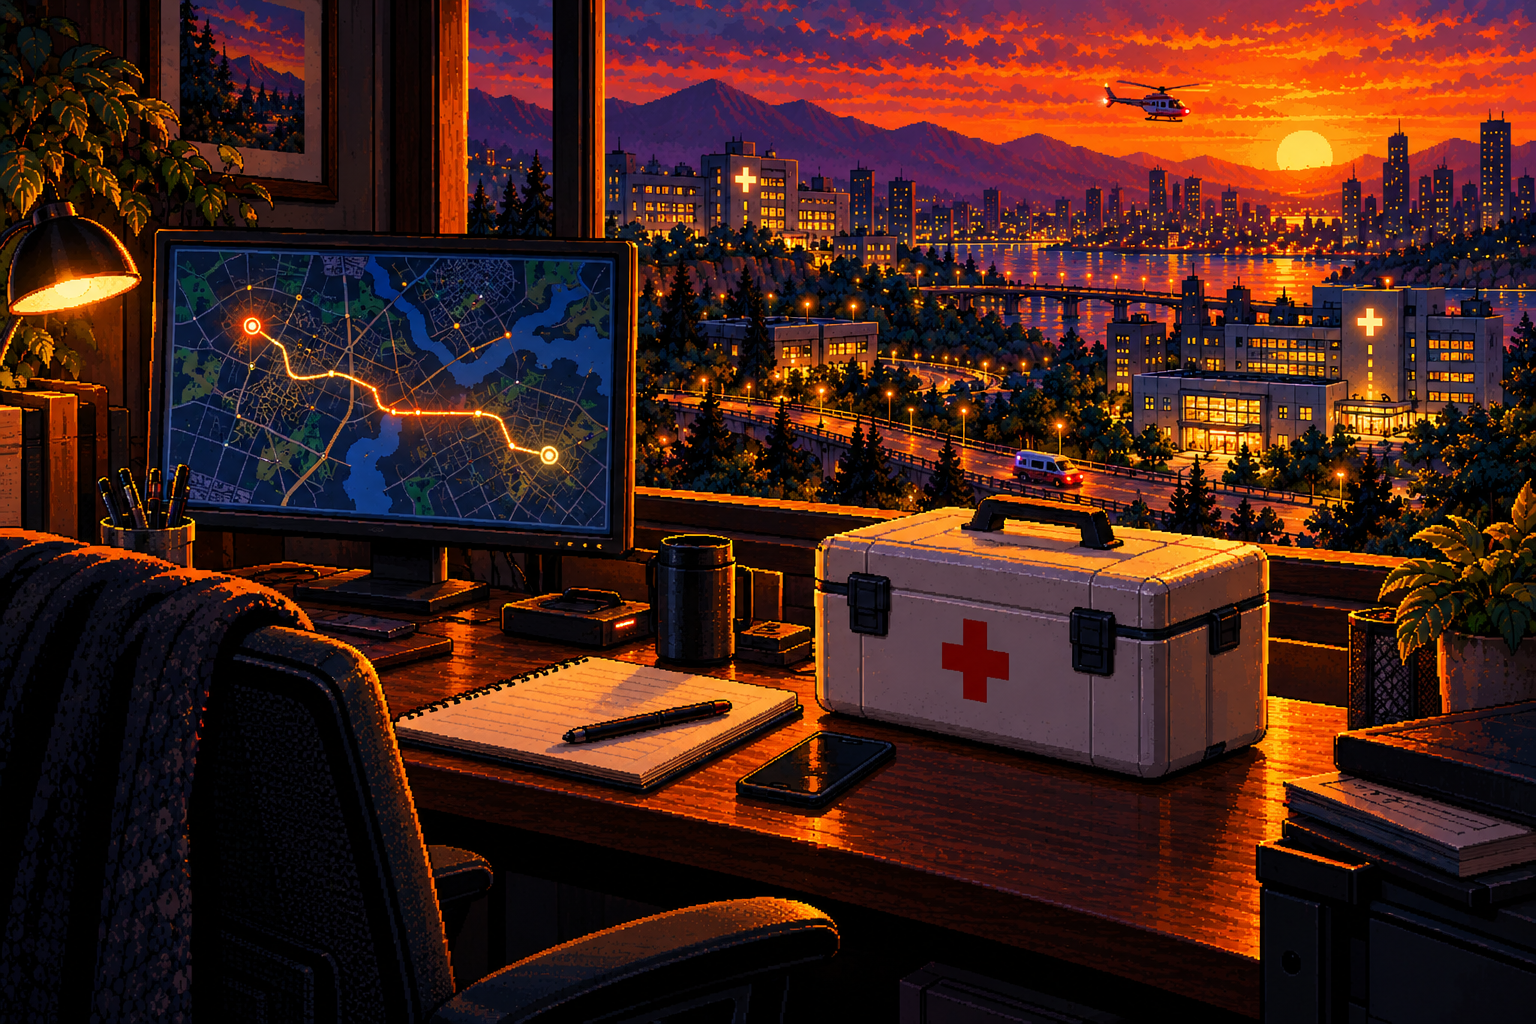
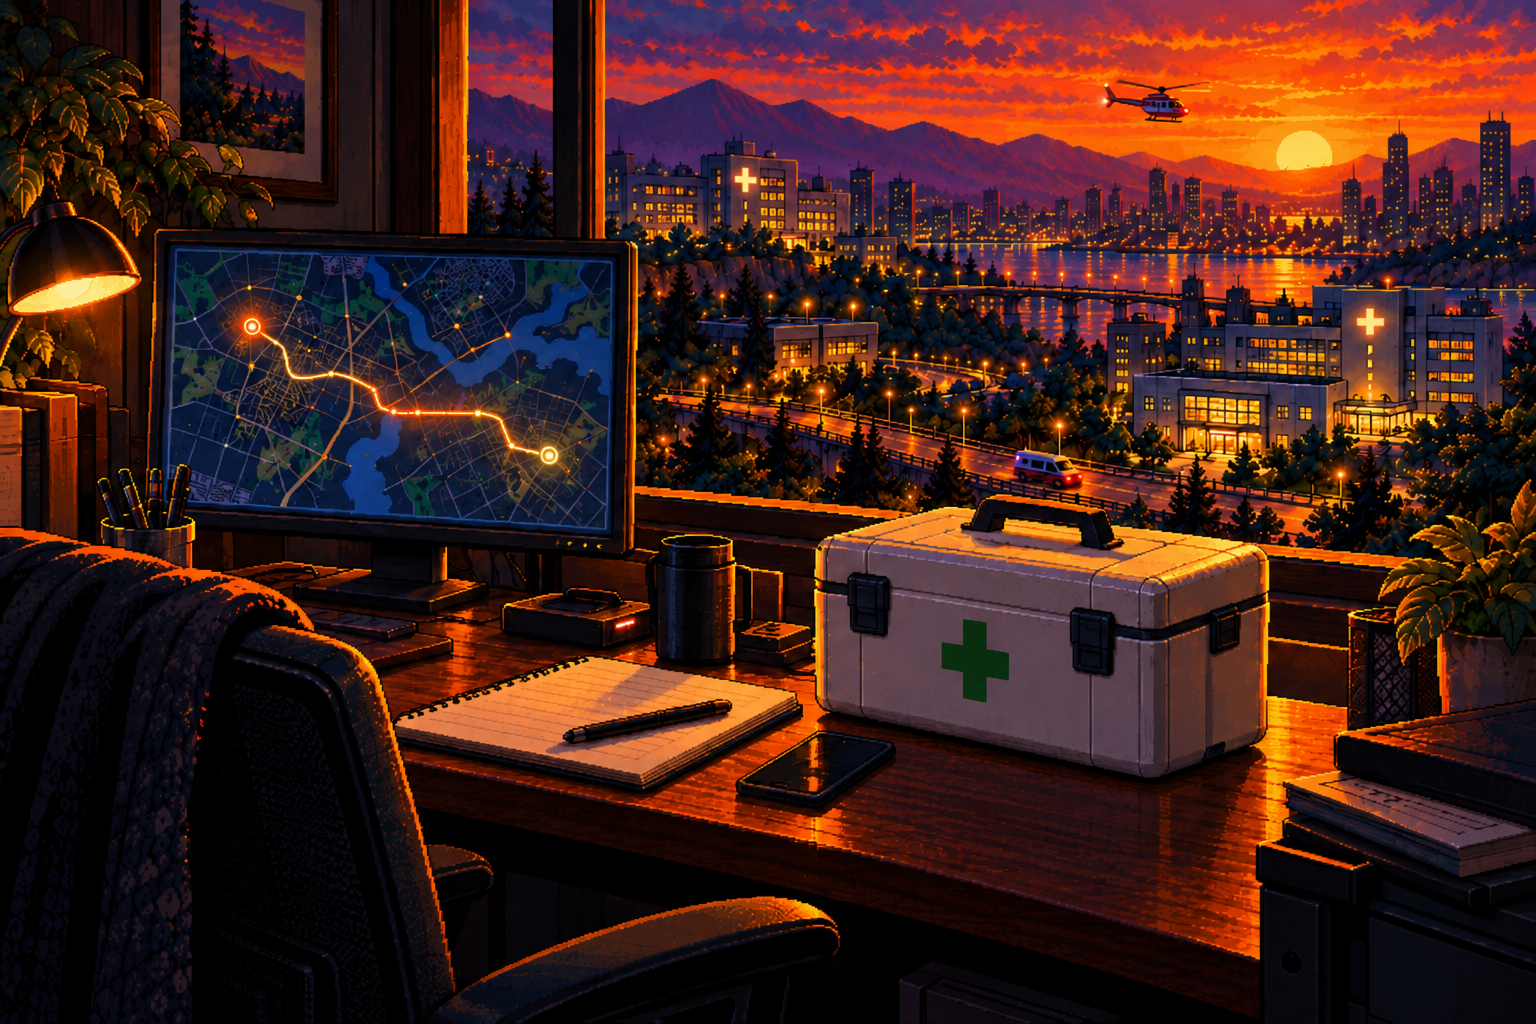
fix(campaign-log): replace the red cross on the EOS medical case (D-091)
The edited illustration uses a green cross instead of the protected Red Cross
emblem; everything else is unchanged.

diff --git a/docs/10-decisions.md b/docs/10-decisions.md
@@ -1292,5 +1292,7 @@ Status possíveis: `Aceita` · `Proposta` · `Substituída` · `Rejeitada`
     - Cap. 01: laboratório da faculdade (01), mesa com os esboços do mosquito (02), mostra com troféu (03), celulares com o jogo (04), dois troféus + TCC + capelo (05).
     - Cap. 02: campo com tablet (ScoutEvo), mesa com rota e maleta médica (EOS), saguão com sensores (Axia), espaço colaborativo com a árvore (Comunidade ON).
   - **Resultado:** todos os 3 capítulos e os 14 marcos têm arte; nenhum placeholder resta (teste dedicado).
+  - **EOS, versão final:** a cruz vermelha sobre fundo branco da maleta (emblema protegido da Cruz Vermelha) foi trocada por uma cruz verde, numa edição feita pelo Eduardo; o resto da imagem não mudou.
+  - **Consoles reconhecíveis:** o console de madeira com joystick (Cap. 01, marco 05) lembra o Atari citado na história; vale a mesma exceção do controle do SNES, sem logos.
   - **Decisão do Eduardo: a estética do controle do SNES pode ficar nas ilustrações do Diário.** A história fala dele (Super Nintendo, "O pedido à joaninha"). É uma exceção à regra de não usar marcas de consoles nos assets: valem a forma e as cores do controle, **sem logos nem nomes de marca** legíveis.
 - **Status:** implementado, aguardando aprovação visual e funcional do Eduardo. Sem merge e sem deploy.
